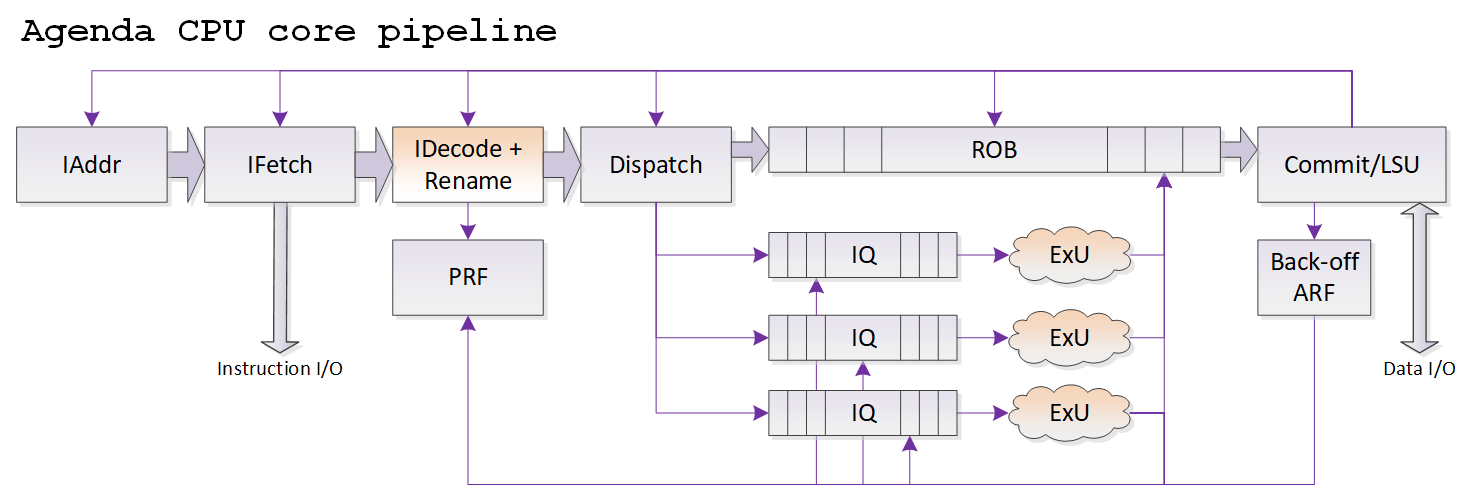
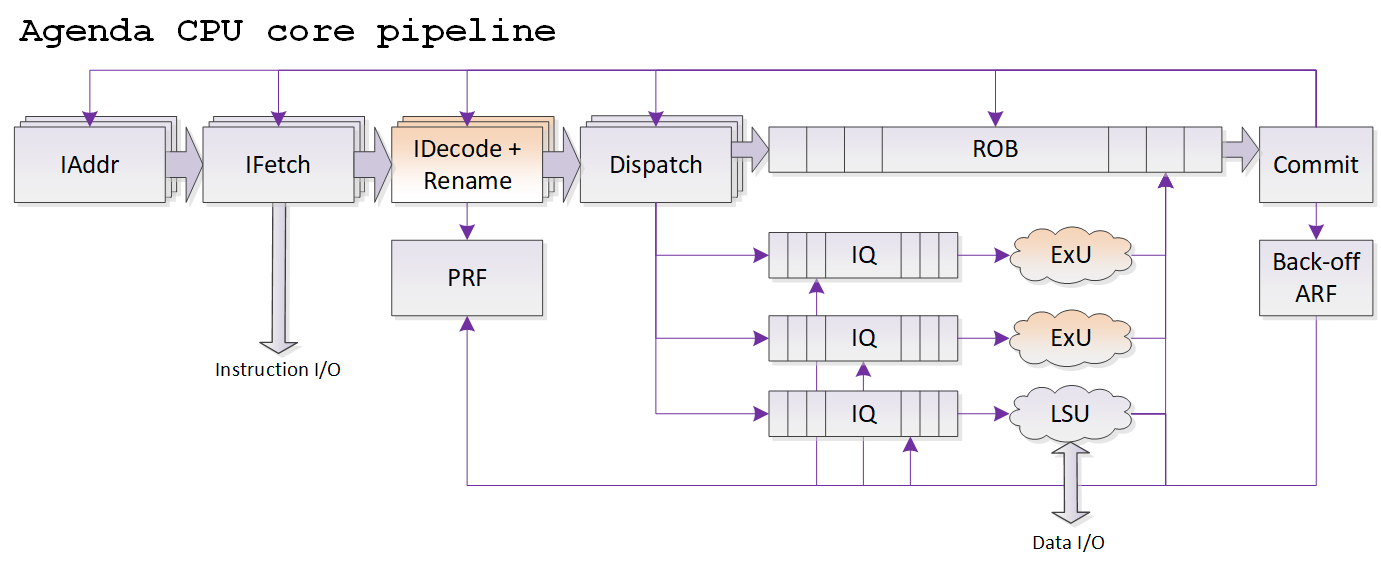
Superscalar Agenda CPU passes most tests

Changed region(s): [[0.0, 0.0309, 1.0, 1.0]]

diff --git a/kernelip/reordex/src/MultiExu.kt b/kernelip/reordex/src/MultiExu.kt
@@ -608,8 +608,8 @@ open class MultiExuCoproc(val name : String, val MultiExu_CFG : Reordex_CFG, val
         } else {            // MultiExu_CFG.mode == REORDEX_MODE.RISC
             (instr_fetch as instr_fetch_buffer).Process(dispatch_uop_buf, MRETADDR, (this as MultiExuRISC).RISCDecode.CSR_MCAUSE)
             (instr_req as instr_req_stage).Process(instr_fetch)
-            //(instr_iaddr as instr_iaddr_stage).Process(instr_req)
-            (instr_iaddr as instr_iaddr_stage).ProcessSingle(instr_req)
+            (instr_iaddr as instr_iaddr_stage).Process(instr_req)
+            //(instr_iaddr as instr_iaddr_stage).ProcessSingle(instr_req)
         }
 
         cyclix_gen.end()
